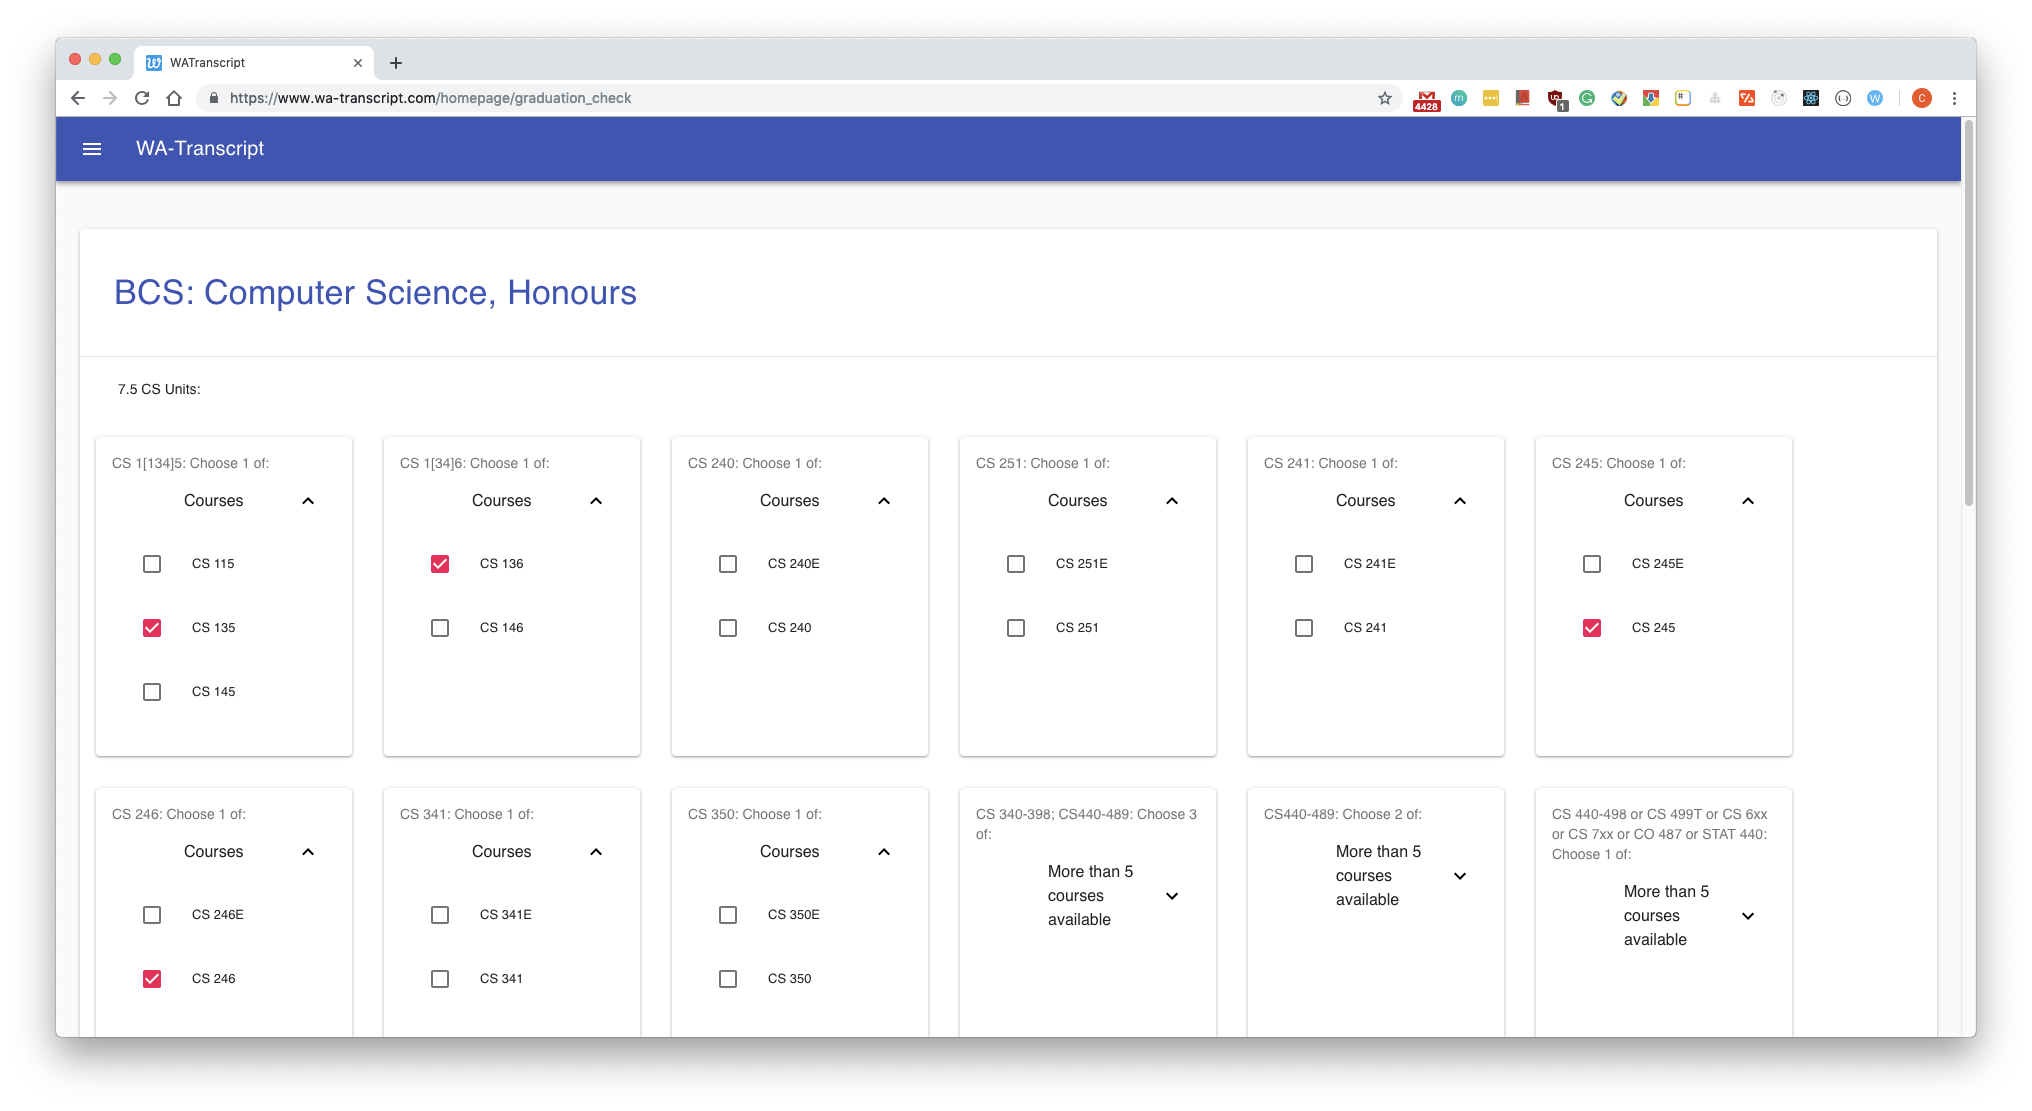
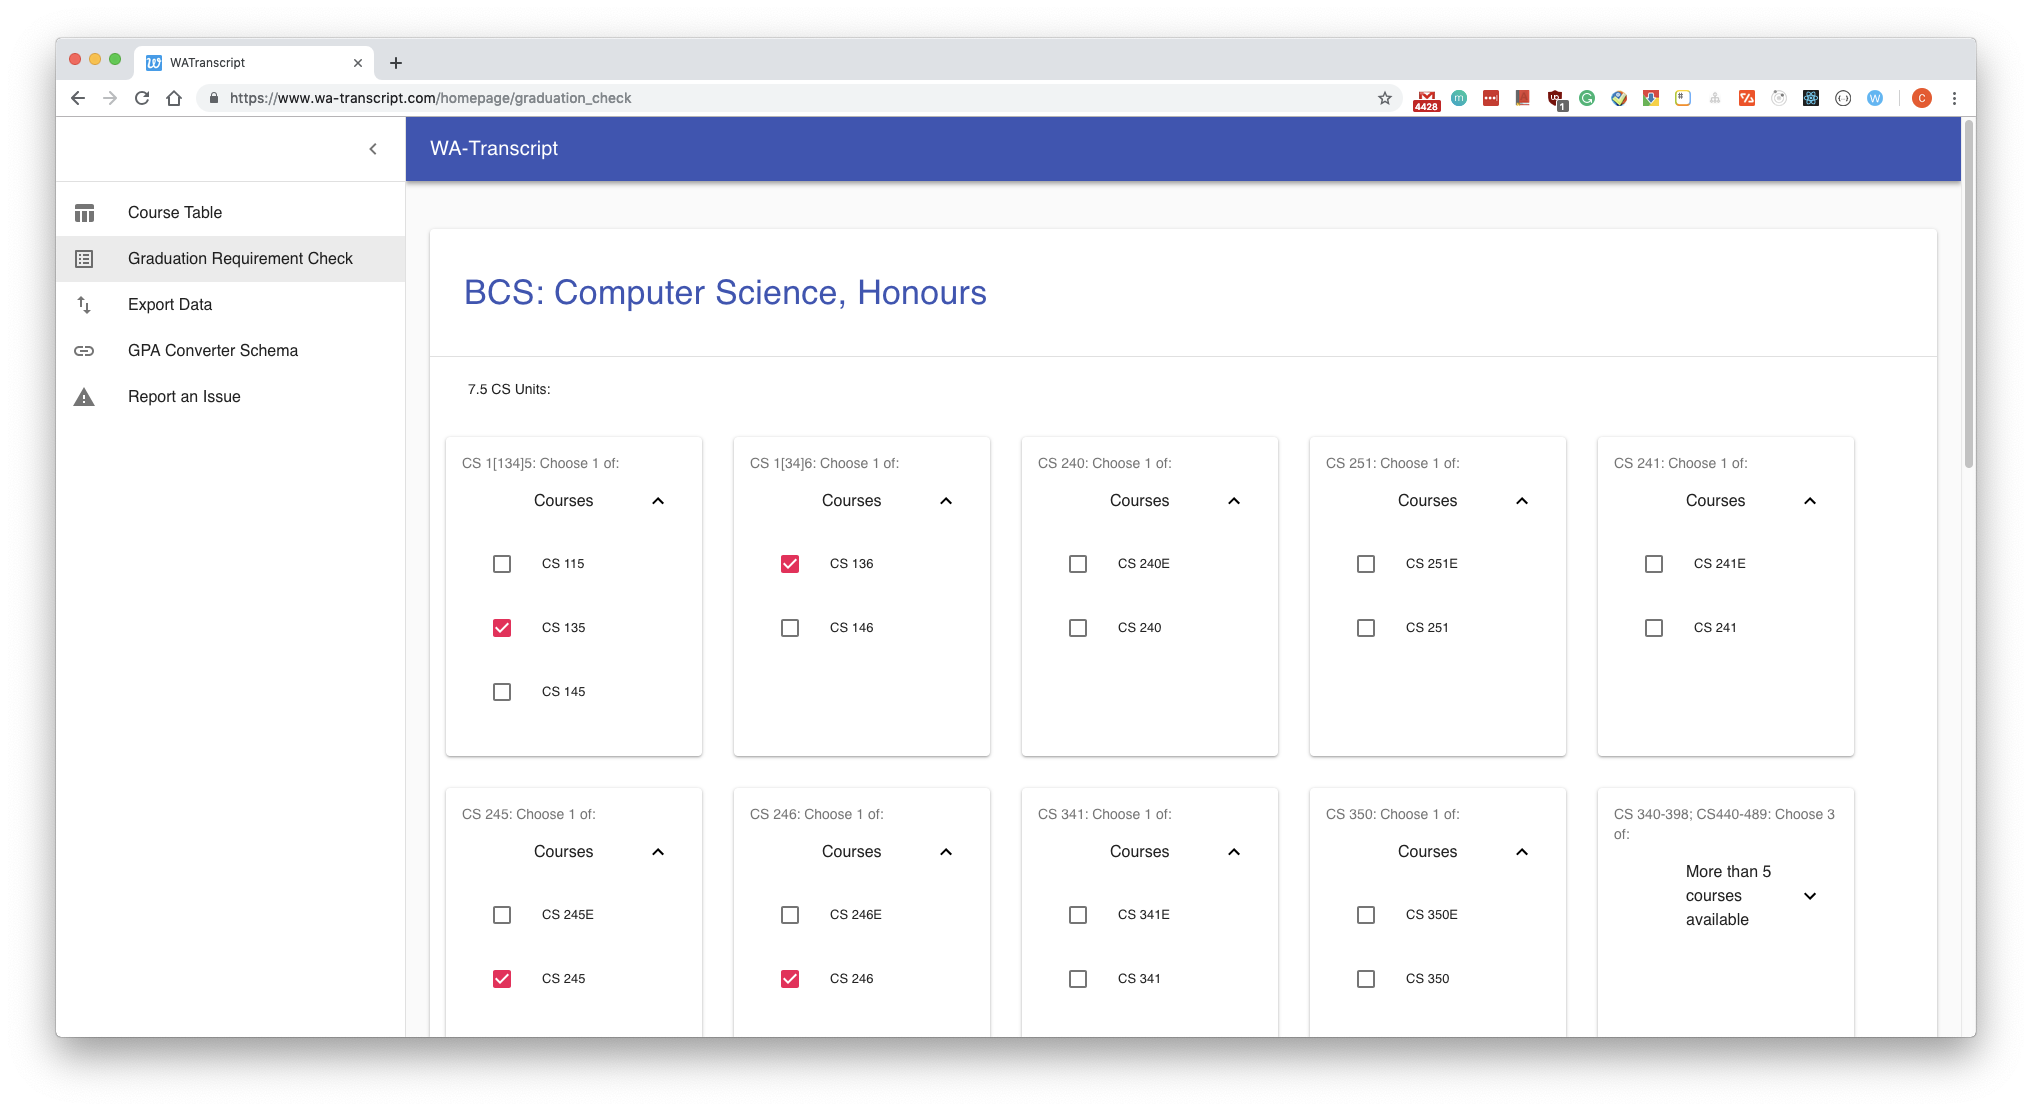
updated readme.md

diff --git a/README.md b/README.md
@@ -52,10 +52,14 @@ the weight of a course would be.
 
 ![Alt text](/doc/UI.png)
 
-**Download Scraped Data**
-
-![Alt text](/doc/DownloadData.png)
-
 **Check Graduation Requirement**
 
 ![Alt text](/doc/GraduationRequirement.png)
+
+**Drawer UI**
+
+![Alt text](/doc/UI2.png)
+
+**Download Scraped Data**
+
+![Alt text](/doc/DownloadData.png)
